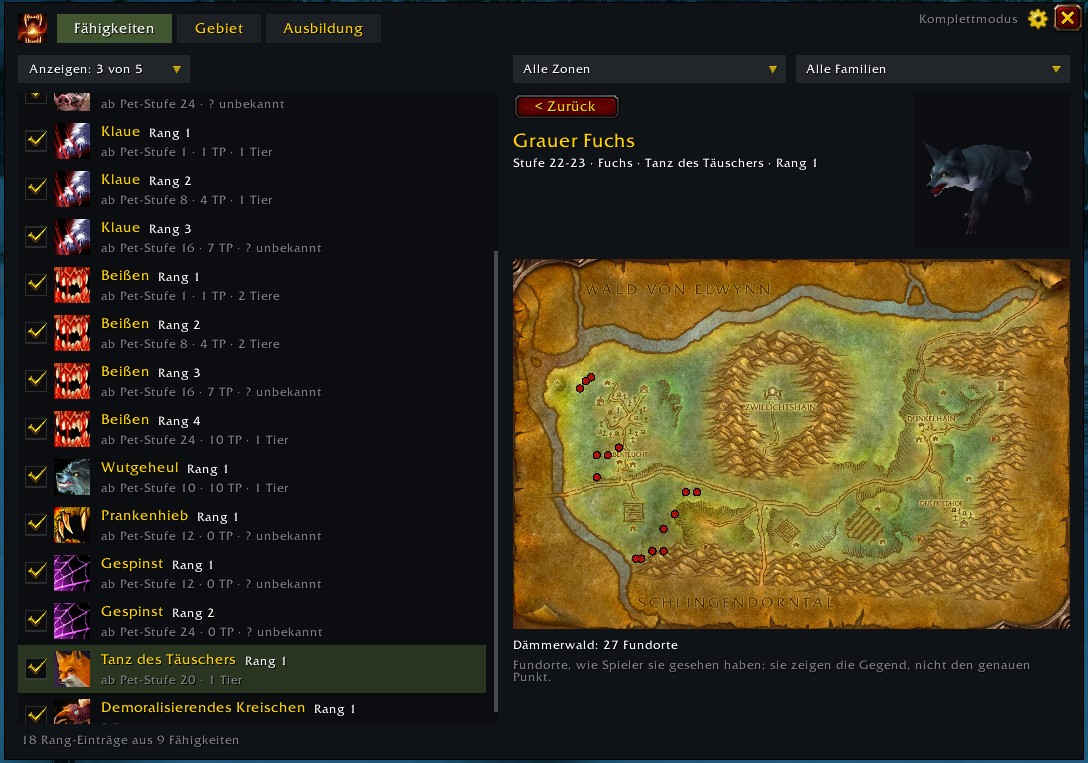
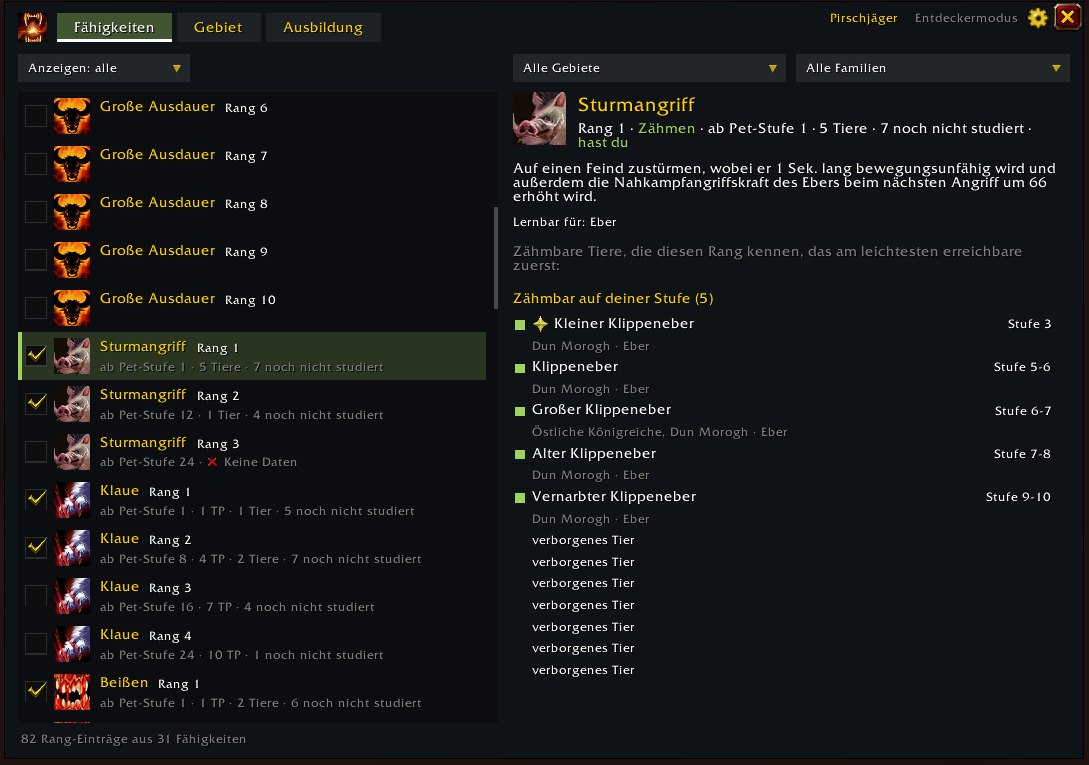
#182 Modi auf CurseForge und in der Doku erklären, Bilder aktualisieren => neue Bilder aus dem Spiel (Entdeckermodus, deutscher Client): Fähigkeiten, Gebiet, Ausbildung, Tooltip, Einstellungen (aus zwei Aufnahmen zusammengesetzt) ersetzt; neu Startansicht, Tour, Zonenauswahl, Tierseite, Begleiterfen

diff --git a/docs/guide/guide.md b/docs/guide/guide.md
@@ -45,6 +45,8 @@ Type `/fhp` or click the button at the minimap. The first time a character opens
 - **Explorer mode** – you go hunting yourself: the addon reveals the information only bit by bit. First you see that a beast exists, then its name, then whether it teaches something, and once you have tamed it, what it teaches. Everything you see, find and tame fills the Zone tab.
 - **Complete mode** – you find every piece of information right away: every beast, what it teaches and where it lives. In return you may get spoiled, and nothing is left for you to discover yourself.
 
+![Start view: explorer mode and complete mode side by side, each with a short description and a button, below the notes on the data, your characters and sharing (German client)](../images/start.jpg)
+
 The data is still being collected and grows more complete over time, so don't be surprised if something is still missing.
 
 If you close the window without choosing, you play in explorer mode. Until you choose, the addon shows nothing that could spoil the search; it already collects in the background. Every character chooses on its own; you can change it any time in the settings or with `/fhp mode`.
@@ -52,6 +54,8 @@ If you close the window without choosing, you play in explorer mode. Until you c
 The window also tells you that **sharing** is on: what you see and tame is shared with other players of the addon, and once enough of them have confirmed it, it becomes part of the addon's data under the MIT license. You can switch sharing off in the settings; then the note is left out.
 
 In explorer mode, a short **tour** follows the first time you open the window: speech bubbles show you where the beasts, the checkboxes, the map and your progress are, and what the other tabs are for. Close it any time with the X or Esc. It comes once per account; `/fhp tour` shows it again.
+
+![Tour, step 2 of 7: the list of beasts is framed in gold, and a speech bubble explains hidden, tracked, found and studied beasts (German client)](../images/tour.jpg)
 
 The current mode is shown in small letters in the top right corner of the window, next to the gear. Hover over it for a short explanation; click it to open the settings.
 
@@ -94,7 +98,7 @@ Hover over it to see how many beasts you have found and from how many you reach 
 
 Every pet ability, rank by rank, and the beasts that teach it.
 
-![Abilities tab: ranks with pet level, training points and teaching beasts on the left, a selected beast with its spawn points on the zone map on the right (German client)](../images/abilities.jpg)
+![Abilities tab in explorer mode: ranks with pet level, training points, teaching beasts and how many are not studied yet on the left; the selected rank on the right with the beasts you have studied, the easiest one starred, and the hidden beasts still to find (German client)](../images/abilities.jpg)
 
 **The list (left).** One row per rank: name, rank, from which pet level, training point cost, and how many beasts teach it (*3 beasts*). In explorer mode, beasts you have not studied yet are counted instead (*2 not studied yet*). A red ✖ with *No data* means nobody has found a beast for this rank yet. The checkbox shows whether **you, the hunter,** have learned the rank (see [learning progress](#your-learning-progress)); its tooltip says *You have it* or *You lack it*. *your pet has it* marks ranks your current pet has, but you don't have yet – don't release that pet too early.
 
@@ -107,13 +111,17 @@ Every pet ability, rank by rank, and the beasts that teach it.
 
 **Beast page.** Click a beast: its 3D model (drag to rotate) and the zone map with its spawn points (in explorer mode: all known ones in the zones where you found and tamed it). The map is revealed as far as your character has explored the zone, like the world map. Spawn points show the area, not the exact spot (see [spawn points](#spawn-points)).
 
+![Beast page: a boar with its level, family and the rank it teaches, its 3D model, and its spawn points on the map of Loch Modan (German client)](../images/beast.jpg)
+
 ## Zone
 
 A progress book for one zone at a time. At the top, *Current zone* is selected: it shows the zone you are in and follows you when you move to another zone. Pick a zone from the list to stay on it, and *Current zone* to follow again. In a zone without known beasts (a capital city, for example) the list says so. A zone you discover appears in the list right away.
 
+![Zone tab for Loch Modan in explorer mode: the beasts of the zone with status, checkbox, family, level and what they teach on the left; the selected studied beast's spawn points and the counters with their tiles on the right; the hunter rank in the title bar (German client)](../images/area.jpg)
+
 **Where is the hunt worth it?** In explorer mode, every zone in the list shows how far you are there: *The Barrens 3/12* means you have found 3 of its 12 beasts (the same number as the *Beasts* counter below the map; a track doesn't count yet). A zone where you have found every beast also carries a ✔ tick. At the very top of the list, a line you can't select sums it up: *All zones: 37 of 134 beasts found*. A beast that lives in several zones counts in each of them, but only once in this sum. The zones stay in alphabetical order. In complete mode the list shows just the names.
 
-![Zone tab for Westfall: the beasts of the zone with family, level and what they teach on the left, the selected beast's spawn points and the zone's totals on the right (German client)](../images/area.jpg)
+![Zone list in explorer mode: at the top the sum over all zones, then every zone with the beasts you have found there, a finished zone with a tick (German client)](../images/zones.jpg)
 
 **The beasts (left).** Every beast of the zone, with the checkbox from *Abilities*, its family icon, its name and below: family, level and what it teaches – *teaches* followed by the ability icons (hover over the row for names and ranks), *teaches nothing*, or a red ✖ with *No data* when nobody knows yet. In complete mode an uncertain rank carries a **?** right after its icon and after the rank in the row's tooltip, as in the beast tooltip (only if you switched uncertain data on). The same **?** follows anything else that only 2 other characters have reported: a name, family or level, *teaches nothing*, or a beast that is listed in the zone only because of their spawn points.
 
@@ -152,7 +160,7 @@ All three counters always read *X of Y*, even when everything is known. In compl
 
 Your learning progress as a list for your **active pet**, coloured like the game's own window – and always with a word, never by colour alone: **learnable** (green), **not enough TP** (yellow), **pet level too low** (red), **your pet has it** and **for other families** (grey). Hover for the reason. Training points: only the difference counts – if your pet has *Bite 3*, *Bite 4* costs only the difference. **Show** hides any of these states.
 
-![Training tab for a boar: every rank with its state and cost on the left, the selected rank with requirements, cost and the families that can learn it on the right (German client)](../images/training.jpg)
+![Training tab for a boar: every rank with its state and cost on the left, the selected rank with the pet level it needs, its cost and the families that can learn it on the right (German client)](../images/training.jpg)
 
 The button **Open Beast Training** opens the game's window. Teaching happens there: the game does not let addons teach.
 
@@ -160,7 +168,7 @@ The button **Open Beast Training** opens the game's window. Teaching happens the
 
 When you hover over a beast, the addon adds its lines below **Forever Hunter Pets**:
 
-![Beast tooltip: below the beast's name and level, Forever Hunter Pets lists the rank it teaches and that you have learned it (German client)](../images/tooltip.jpg)
+![Beast tooltip in explorer mode: below the beast's name and level, Forever Hunter Pets shows the status beast studied and the ranks it teaches, each marked you have it (German client)](../images/tooltip.jpg)
 
 1. **Status** (explorer mode only): *tracked*, *beast found* or *beast studied*; none while you have never seen it.
 2. **Attack speed** if it differs from normal (for example *Faster Attack III (1.5 s)*) – your pet takes it over.
@@ -239,13 +247,15 @@ The addon adds two small things to the game's pet frame:
 - your pet's **level** in a small circle at the bottom left,
 - a slim **experience bar** below it. Hover over the bar for the exact numbers: level, experience and percent, and how much is left to the next level. At the highest level your pet can reach (your own level), the bar is full and the tooltip says *Max*.
 
+![Pet frame: the pet's level in a circle and the experience bar below it; the tooltip shows level, experience, percent and how much is left to the next level (German client)](../images/petframe.jpg)
+
 Both can be switched off in the settings, one by one or together (*Pet frame additions*). If another addon replaces the game's pet frame, nothing is shown.
 
 ## Settings
 
 Game options → **AddOns → Forever Hunter Pets**, or the gear in the window.
 
-![Settings page with the logo and the options from explorer mode to Share observations (German client)](../images/settings.jpg)
+![Settings page with the logo and all options, from explorer mode to Share observations (German client)](../images/settings.jpg)
 
 | Setting | Default | What it does |
 | --- | --- | --- |
